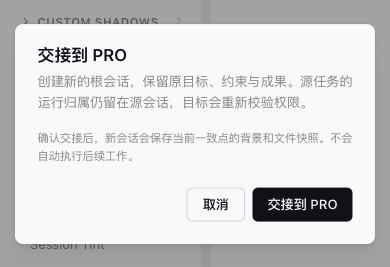
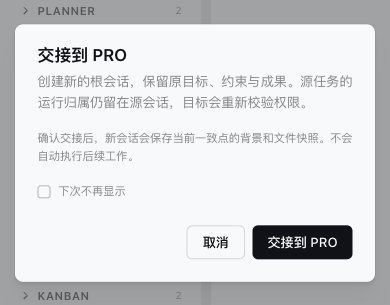
优化会话交接：记住跳过确认的选择
在交接确认中加入“下次不再显示”，确认交接后保存本地偏好，取消不保存草稿。后续入口可直接交接，并通过现有提示提供目标或等待详情入口，失败仍可查看与重试。
复用持久化偏好、原生勾选控件与交接协议，保留重复点击防护和双向交接行为。
补充七种语言、行为检查和深浅主题、窄窗口截图。

验证：工作区及 Electron 类型检查、组件 ESLint、多语言键值与排序、渲染端构建通过。交接基础检查及偏好保存、取消、刷新、重复点击、双向交接、等待与失败恢复检查通过。

diff --git a/apps/electron/src/renderer/components/app-shell/HandoverPanel.tsx b/apps/electron/src/renderer/components/app-shell/HandoverPanel.tsx
@@ -1,11 +1,13 @@
 import { useCallback, useEffect, useRef, useState } from 'react'
 import { useTranslation } from 'react-i18next'
-import { ArrowRightLeft, ArrowUpRight, LoaderCircle, Redo2 } from 'lucide-react'
+import { ArrowRightLeft, ArrowUpRight, Check, LoaderCircle, Redo2 } from 'lucide-react'
 import { Tooltip, TooltipContent, TooltipTrigger } from '@craft-agent/ui'
+import { toast } from 'sonner'
 import { Button } from '@/components/ui/button'
 import { Dialog, DialogContent, DialogHeader, DialogTitle, DialogDescription, DialogFooter } from '@/components/ui/dialog'
 import { useAppShellContext } from '@/context/AppShellContext'
-import { useAtomValue } from 'jotai'
+import { useAtom, useAtomValue } from 'jotai'
+import { skipHandoverConfirmationAtom } from '@/atoms/handover'
 import { sessionMetaMapAtom } from '@/atoms/sessions'
 import { navigate, routes } from '@/lib/navigate'
 import type { HandoverOperation, HandoverRecord, HandoverResult } from '@craft-agent/shared/protocol'
@@ -22,6 +24,8 @@ export function HandoverPanel({ sessionId, mode, canCreate, sourceLink, headerOn
   const { t } = useTranslation()
   const { onOpenFile } = useAppShellContext()
   const metadata = useAtomValue(sessionMetaMapAtom)
+  const [skipConfirmation, setSkipConfirmation] = useAtom(skipHandoverConfirmationAtom)
+  const [dontShowAgain, setDontShowAgain] = useState(false)
   const [open, setOpen] = useState(false)
   const [records, setRecords] = useState<HandoverRecord[]>([])
   const [selectedId, setSelectedId] = useState(sourceLink?.handoverId)
@@ -70,14 +74,36 @@ export function HandoverPanel({ sessionId, mode, canCreate, sourceLink, headerOn
   const run = async (operation: HandoverOperation) => {
     if (activeCall.current) return
     activeCall.current = true; setBusy(true); setError(undefined)
-    try { accept(await call(operation)); window.dispatchEvent(new Event('selection-handover-updated')) }
+    try { const result = await call(operation); accept(result); window.dispatchEvent(new Event('selection-handover-updated')); return result }
     catch (reason) { setError(reason instanceof Error ? reason.message : String(reason)) }
     finally { activeCall.current = false; if (alive.current) setBusy(false) }
   }
-  const begin = () => {
+  const begin = async () => {
+    if (activeCall.current) return
     const pending = records.find(record => record.sourceSessionId === sessionId && ['waiting','prepared','created'].includes(record.status))
+    if (selected?.status === 'applied' || selected?.status === 'cancelled') requestId.current = undefined
     requestId.current ??= pending?.handoverId ?? crypto.randomUUID()
-    void run({ type: 'create', handoverId: requestId.current, targetMode })
+    return run({ type: 'create', handoverId: requestId.current, targetMode })
+  }
+  const showDialog = () => {
+    setDontShowAgain(skipConfirmation === true)
+    setOpen(true)
+  }
+  const confirm = async () => {
+    const result = await begin()
+    if (result?.records.length) setSkipConfirmation(dontShowAgain)
+  }
+  const handover = async () => {
+    if (skipConfirmation !== true) { showDialog(); return }
+    if (activeCall.current) return
+    const result = await begin()
+    if (!alive.current) return
+    const record = result?.records[0]
+    if (record?.status === 'applied' && record.targetSessionId) {
+      toast.success(t('handover.backgroundReady'), { action: { label: t('handover.openTarget'), onClick: () => navigate(routes.view.allSessions(record.targetSessionId!)) } })
+    } else if (record?.status === 'waiting') {
+      toast(t('handover.status.waiting'), { description: t('handover.waiting'), action: { label: t('handover.viewBackground'), onClick: showDialog } })
+    } else showDialog()
   }
   const targetOwned = selected?.targetSessionId === sessionId
   const unknown = selected?.snapshot?.actions.filter(action => action.outcome === 'unknown' && !selected.reviews[action.ref]) ?? []
@@ -85,14 +111,14 @@ export function HandoverPanel({ sessionId, mode, canCreate, sourceLink, headerOn
   return <>
     {headerOnly ? canCreate && <Tooltip><TooltipTrigger asChild>
       <Button type="button" data-handover-trigger variant="ghost" size="sm" className="titlebar-no-drag h-7 shrink-0 gap-1 px-2 text-foreground/70 hover:text-foreground"
-        aria-label={t('handover.openReview', { mode: targetMode })} aria-haspopup="dialog" disabled={busy || open} onClick={() => setOpen(true)}>
-        <Redo2 aria-hidden="true" /><span className="tracking-[0.04em]">{targetMode}</span>
+        aria-label={t('handover.openReview', { mode: targetMode })} aria-haspopup={skipConfirmation === true ? undefined : 'dialog'} disabled={busy || open} onClick={() => void handover()}>
+        {busy ? <LoaderCircle aria-hidden="true" className="animate-spin" /> : <Redo2 aria-hidden="true" />}<span className="tracking-[0.04em]">{targetMode}</span>
       </Button>
     </TooltipTrigger><TooltipContent side="bottom" align="end">{t('handover.openReview', { mode: targetMode })}</TooltipContent></Tooltip>
       : sourceLink && <div className="mx-4 mb-2 flex flex-wrap items-center gap-2 rounded-lg border border-border/60 bg-foreground/[0.02] px-3 py-2 text-xs">
         <ArrowRightLeft className="size-3.5 text-muted-foreground" /><span>{t('handover.backgroundReady')}</span>
         <button type="button" className="text-muted-foreground hover:text-foreground transition-colors" disabled={!metadata.has(sourceLink.sourceSessionId)} onClick={() => navigate(routes.view.allSessions(sourceLink.sourceSessionId))}>{metadata.has(sourceLink.sourceSessionId) ? t('handover.openSource') : t('handover.sourceRemoved')}</button>
-        <button type="button" className="ml-auto text-muted-foreground hover:text-foreground transition-colors" onClick={() => setOpen(true)}>{t('handover.viewBackground')}</button>
+        <button type="button" className="ml-auto text-muted-foreground hover:text-foreground transition-colors" onClick={showDialog}>{t('handover.viewBackground')}</button>
         {unknown.length > 0 && <span role="status" className="w-full text-warning">{t('handover.unknownBlocked', { count: unknown.length })}</span>}
       </div>}
     <Dialog open={open} onOpenChange={setOpen}>
@@ -124,12 +150,20 @@ export function HandoverPanel({ sessionId, mode, canCreate, sourceLink, headerOn
             </>}
           </>}
         </div>
+        {canCreate && (!selected || selected.status !== 'waiting') && <label className="flex min-h-6 cursor-pointer items-center gap-2 text-xs leading-relaxed text-muted-foreground">
+          <span className="relative flex size-3.5 shrink-0 items-center justify-center">
+            <input type="checkbox" className="peer absolute inset-0 size-full appearance-none rounded-[3px] border border-foreground/30 bg-transparent transition-colors checked:border-foreground checked:bg-foreground focus-visible:outline-none focus-visible:ring-2 focus-visible:ring-ring focus-visible:ring-offset-2 focus-visible:ring-offset-background disabled:opacity-50"
+              checked={dontShowAgain} disabled={busy} onChange={event => setDontShowAgain(event.target.checked)} />
+            <Check aria-hidden="true" className="pointer-events-none size-3 text-background opacity-0 peer-checked:opacity-100" />
+          </span>
+          {t('handover.dontShowAgain')}
+        </label>}
         <DialogFooter className="shrink-0 flex-row flex-wrap items-center justify-end pt-2">
           {selected && <Button variant="ghost" className="mr-auto" disabled={busy || !sourceExists} onClick={() => navigate(routes.view.allSessions(selected.sourceSessionId))}>{sourceExists ? t('handover.openSource') : t('handover.sourceRemoved')}</Button>}
           <Button variant="outline" onClick={() => setOpen(false)}>{selected ? t('common.close') : t('common.cancel')}</Button>
           {selected?.status === 'waiting' && <Button variant="outline" disabled={busy} onClick={() => void run({ type: 'cancel', handoverId: selected.handoverId })}>{t('handover.cancelWait')}</Button>}
           {selected?.status === 'applied' && selected.targetSessionId && <Button onClick={() => navigate(routes.view.allSessions(selected.targetSessionId!))}><ArrowUpRight className="mr-1.5 size-3.5" />{t('handover.openTarget')}</Button>}
-          {canCreate && (!selected || selected.status !== 'waiting') && <Button variant={selected ? 'outline' : 'default'} disabled={busy} onClick={() => { if (selected?.status === 'applied' || selected?.status === 'cancelled') requestId.current = undefined; begin() }}>{busy && <LoaderCircle className="mr-1.5 size-3.5 animate-spin" />}{selected?.status === 'prepared' || selected?.status === 'created' ? t('handover.retry') : selected ? t('handover.newSnapshot') : actionLabel}</Button>}
+          {canCreate && (!selected || selected.status !== 'waiting') && <Button variant={selected ? 'outline' : 'default'} disabled={busy} onClick={() => void confirm()}>{busy && <LoaderCircle className="mr-1.5 size-3.5 animate-spin" />}{selected?.status === 'prepared' || selected?.status === 'created' ? t('handover.retry') : selected ? t('handover.newSnapshot') : actionLabel}</Button>}
         </DialogFooter>
       </DialogContent>
     </Dialog>
@@ -145,7 +179,7 @@ function Detail({ title, values }: { title: string; values: string[] }) {
   if (!values.length) return null
   return <section className="space-y-1.5"><h3 className="text-xs font-medium text-muted-foreground">{title}</h3><ul className="space-y-1 text-sm">{[...new Set(values)].map((value,index) => <li key={index} className="whitespace-pre-wrap break-words">{value}</li>)}</ul></section>
 }
-function OperationReview({ text, tool, disabled, onSave }: { text: string; tool: string; disabled: boolean; onSave: (outcome: 'completed' | 'not-performed', note: string) => Promise<void> }) {
+function OperationReview({ text, tool, disabled, onSave }: { text: string; tool: string; disabled: boolean; onSave: (outcome: 'completed' | 'not-performed', note: string) => Promise<unknown> }) {
   const { t } = useTranslation()
   const [outcome, setOutcome] = useState<'completed' | 'not-performed'>()
   const [note, setNote] = useState('')

diff --git a/scripts/qa-handover-preference.js b/scripts/qa-handover-preference.js
@@ -1,0 +1,123 @@
+// Run with ego-browser nodejs < scripts/qa-handover-preference.js.
+// Reuse a task space with globalThis.handoverQA = { spaceId, url, outputDir }.
+const { strict: assert } = await import('node:assert')
+const config = globalThis.handoverQA ?? {}
+const task = await taskSpace(config.spaceId ?? 'Handover preference QA')
+const page = task.page('p1')
+const storageKey = 'craft-skip-handover-confirmation'
+await page.goto(config.url ?? 'http://127.0.0.1:5187/playground.html')
+const previous = await page.evaluate(key => localStorage.getItem(key), storageKey)
+async function reload() {
+  await page.reload()
+  await page.waitForSelector('[data-handover-trigger]')
+  await page.evaluate(async () => {
+    const entry = await (await fetch('/playground.tsx')).text()
+    const url = [...entry.matchAll(/from "([^"]+)"/g)].map(m => m[1]).find(u => u.includes('/i18n/'))
+    await (await import(url)).i18n.changeLanguage('zh-Hans')
+  })
+}
+const state = () => page.evaluate(key => ({
+  dialog: !!document.querySelector('[role=dialog]'),
+  records: document.querySelector('[data-handover-record-count]').textContent,
+  preference: localStorage.getItem(key),
+  checked: document.querySelector('input[type=checkbox]')?.checked,
+}), storageKey)
+async function close() {
+  await page.keyboard.press('Escape')
+  await page.waitForFunction(() => !document.querySelector('[role=dialog]'))
+}
+async function capture(name) {
+  const clip = await page.evaluate(async () => {
+    const dialog = document.querySelector('[role=dialog]')
+    await Promise.all(dialog.getAnimations().map(a => a.finished.catch(() => {})))
+    const r = dialog.getBoundingClientRect()
+    return { x: Math.max(0, r.x - 24), y: Math.max(0, r.y - 24), width: Math.min(innerWidth, r.width + 48), height: Math.min(innerHeight, r.height + 48) }
+  })
+  return page.screenshot({ path: `${config.outputDir ?? '/tmp/selection-handover-preference'}/${name}.png`, clip })
+}
+try {
+  await page.evaluate(key => { localStorage.removeItem(key); localStorage.setItem('playground-selected-component', 'session-handover') }, storageKey)
+  await reload()
+  await page.click('[data-handover-trigger]')
+  await page.waitForSelector('input[type=checkbox]')
+  assert.equal((await state()).checked, false)
+  await page.focus('input[type=checkbox]')
+  await page.press('input[type=checkbox]', 'Space')
+  assert.equal((await state()).checked, true, 'the native checkbox must be keyboard operable')
+  await page.click('[role=dialog] button:text-is("取消")')
+  await page.waitForFunction(() => !document.querySelector('[role=dialog]'))
+  assert.equal((await state()).preference, null, 'cancel must not save the draft choice')
+  assert.equal((await state()).records, '交接记录：0')
+  await page.click('loc=role:button[name="Dark"]')
+  await page.click('[data-handover-trigger]')
+  assert.equal((await state()).checked, false, 'reopening must discard the cancelled draft')
+  const dark = await capture('handover-dialog-dark')
+  await close()
+  await page.click('loc=role:button[name="Light"]')
+  await page.click('[data-handover-trigger]')
+  const light = await capture('handover-dialog-light')
+  await page.cdp('Emulation.setDeviceMetricsOverride', { width: 390, height: 844, deviceScaleFactor: 1, mobile: false })
+  const narrow = await capture('handover-dialog-narrow')
+  assert.equal(await page.evaluate(() => { const d = document.querySelector('[role=dialog]'); return d.scrollWidth > d.clientWidth }), false)
+  await page.cdp('Emulation.clearDeviceMetricsOverride')
+  await page.click('input[type=checkbox]')
+  await page.click('[role=dialog] button:text-is("交接到 PRO")')
+  await page.waitForFunction(() => document.querySelector('[data-handover-record-count]').textContent === '交接记录：1')
+  assert.equal((await state()).preference, 'true', 'confirmed opt-out must persist')
+  assert.equal((await state()).checked, true, 'existing records must retain the preference control for new handovers')
+  const results = await capture('handover-dialog-results')
+  await close()
+  await reload()
+  await page.click('[data-handover-trigger]')
+  await page.waitForFunction(() => document.querySelector('[data-handover-record-count]').textContent === '交接记录：1')
+  assert.equal((await state()).dialog, false, 'the saved preference must skip confirmation after reload')
+  await page.waitForSelector('[data-sonner-toast]')
+  assert.ok(await page.evaluate(() => [...document.querySelectorAll('[data-sonner-toast]')].some(e => e.textContent.includes('打开目标会话'))), 'direct handover must offer a target action')
+  await page.evaluate(() => {
+    const original = window.electronAPI.sessionCommand
+    window.handoverCreateCalls = 0
+    window.electronAPI.sessionCommand = async (...args) => {
+      if (args[1].operation?.type === 'create') {
+        window.handoverCreateCalls++
+        window.lastHandoverMode = args[1].operation.targetMode
+        await new Promise(resolve => { window.releaseHandover = resolve })
+      }
+      return original(...args)
+    }
+  })
+  await page.click('[data-handover-trigger]')
+  assert.equal(await page.evaluate(() => document.querySelector('[data-handover-trigger]').disabled), true)
+  await page.evaluate(() => document.querySelector('[data-handover-trigger]').click())
+  assert.equal(await page.evaluate(() => window.handoverCreateCalls), 1, 'a busy direct action must not duplicate requests')
+  await page.evaluate(() => window.releaseHandover())
+  await page.waitForFunction(() => document.querySelector('[data-handover-record-count]').textContent === '交接记录：2')
+  assert.equal((await state()).dialog, false, 'later clicks must create fresh handovers without reopening confirmation')
+  await page.click('text="打开目标预览"')
+  await page.waitForFunction(() => document.querySelector('[data-handover-trigger]').textContent === 'NORM')
+  await page.click('[data-handover-trigger]')
+  assert.equal(await page.evaluate(() => window.lastHandoverMode), 'NORM', 'the same preference must support reverse handover')
+  await page.evaluate(() => window.releaseHandover())
+  await page.waitForFunction(() => document.querySelector('[data-handover-record-count]').textContent === '交接记录：3')
+  assert.equal((await state()).dialog, false)
+  await reload()
+  await page.selectOption('select', 'waiting')
+  await page.click('[data-handover-trigger]')
+  await page.waitForFunction(() => document.querySelector('[data-handover-record-count]').textContent === '交接记录：1')
+  assert.equal((await state()).dialog, false)
+  await page.click('[data-sonner-toast] button:text-is("查看交接")')
+  await page.waitForSelector('[role=dialog]')
+  assert.ok(await page.evaluate(() => document.querySelector('[role=dialog]').textContent.includes('取消等待')), 'waiting must remain inspectable and cancellable')
+  await close()
+  await page.selectOption('select', 'ready')
+  await page.evaluate(() => { window.electronAPI.sessionCommand = async () => { throw new Error('QA: 交接不可用') } })
+  await page.click('[data-handover-trigger]')
+  await page.waitForSelector('[role=dialog] [role=alert]')
+  assert.ok(await page.evaluate(() => document.querySelector('[role=alert]').textContent.includes('QA: 交接不可用')), 'failed direct actions must remain recoverable')
+  assert.equal((await state()).preference, 'true')
+  console.log({ passed: true, cancelDiscards: true, persisted: true, directHandover: true, duplicateGuard: true, reverseHandover: true, waitingInspectable: true, errorsVisible: true, screenshots: [dark, light, narrow, results] })
+} finally {
+  await page.cdp('Emulation.clearDeviceMetricsOverride')
+  await page.evaluate(({ key, value }) => { if (value === null) localStorage.removeItem(key); else localStorage.setItem(key, value) }, { key: storageKey, value: previous })
+  await page.reload()
+}
+if (!config.spaceId) await task.finish({ keep: [] })

diff --git a/apps/electron/src/renderer/atoms/handover.ts b/apps/electron/src/renderer/atoms/handover.ts
@@ -1,0 +1,5 @@
+import { atomWithStorage } from 'jotai/utils'
+
+export const skipHandoverConfirmationAtom = atomWithStorage<boolean>(
+  'craft-skip-handover-confirmation', false, undefined, { getOnInit: true }
+)
